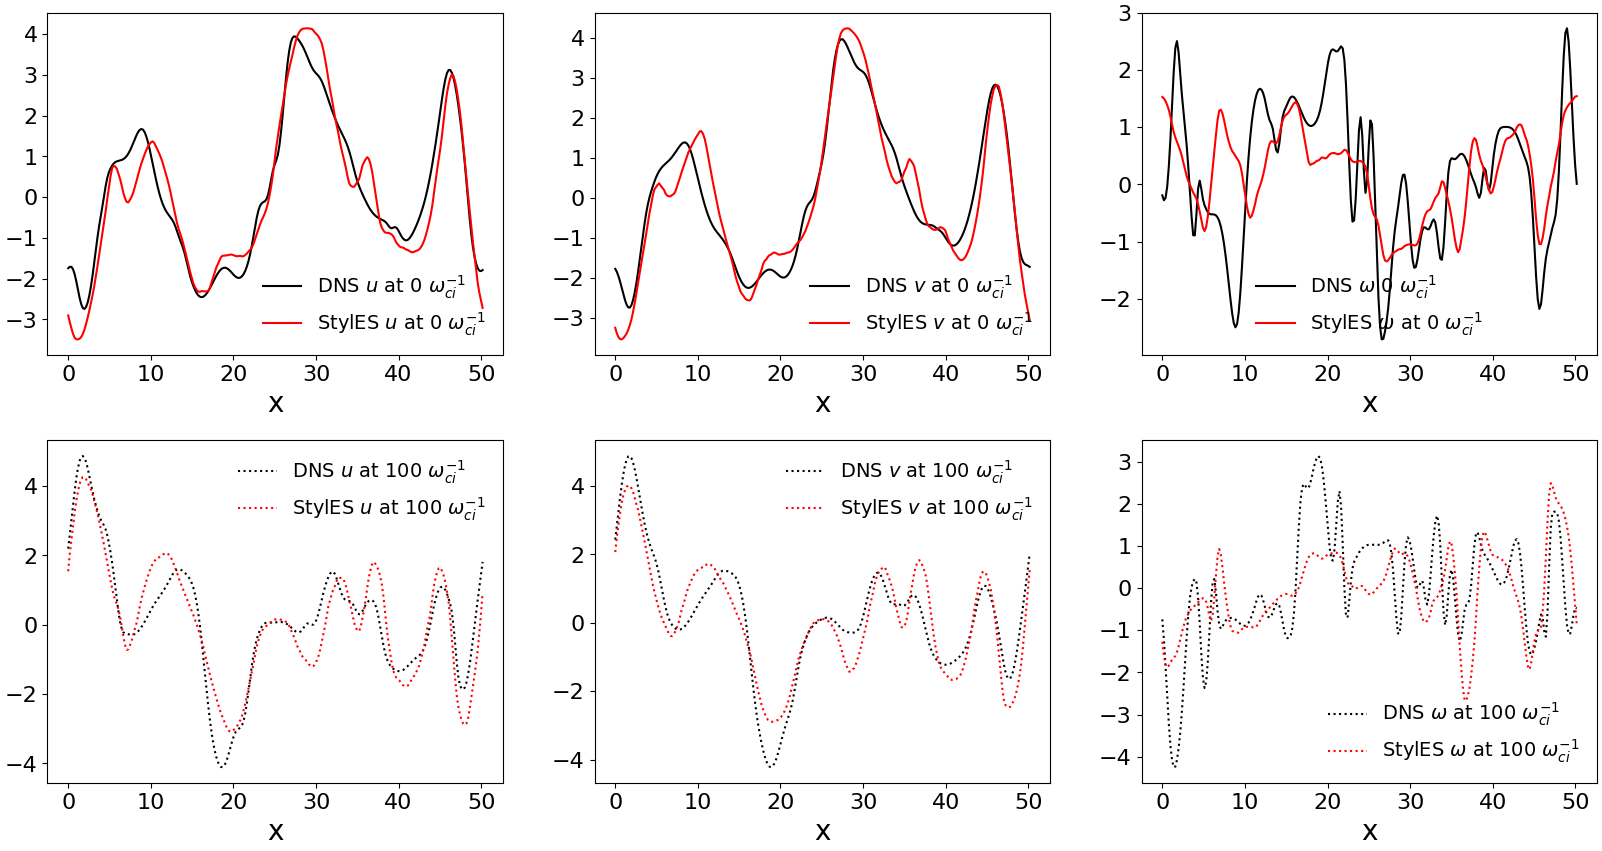
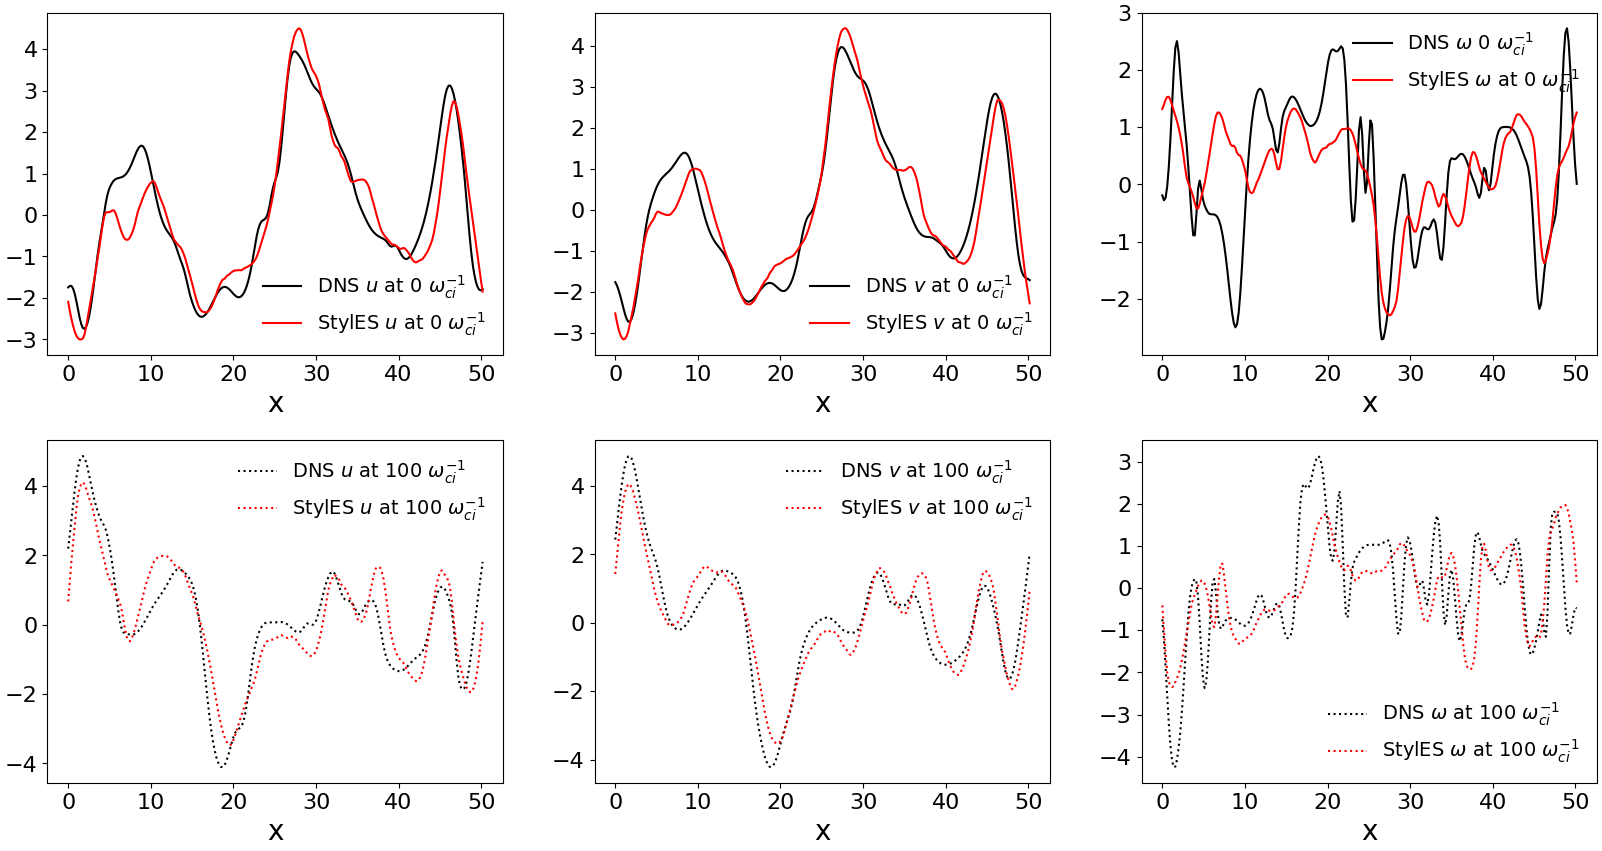
Run up to 1000 time units

diff --git a/bout_interfaces/pBOUT.py b/bout_interfaces/pBOUT.py
@@ -62,11 +62,11 @@ delx        = 1.0
 dely        = 1.0
 delx_LES    = 1.0
 dely_LES    = 1.0
-tollDNS     = 2.5e-1
+tollDNS     = 2.5e+10
 CHKP_DIR    = PATH_StylES + "checkpoints/"
 CHKP_DIR_WL = PATH_StylES + "bout_interfaces/restart_fromGAN/checkpoints_wl/"
 LES_pass    = lr_LES_maxIt
-pPrintFreq  = 0.01
+pPrintFreq  = 1.0
 INIT_SCAL   = 10.0
 RUN_DNS     = False
 RESTART_WL  = True
@@ -421,26 +421,26 @@ def findLESTerms(pLES):
         pStepo   = pStep
         UVP_max  = [nU_amaxo, nV_amaxo, nP_amaxo]
 
-    else:
+    # else:
 
-        maxit    = LES_pass
-        delt     = (simtime - simtimeo)/(pStep - pStepo)
-        simtimeo = simtime
-        pStepo   = pStep
+    #     maxit    = LES_pass
+    #     delt     = (simtime - simtimeo)/(pStep - pStepo)
+    #     simtimeo = simtime
+    #     pStepo   = pStep
         
-        UVP_DNS, UVP_LES, fUVP_DNS, _, preds = find_predictions(wl_synthesis, gfilter, [z0, fimgA], UVP_max)
-        U = preds[RES_LOG2-2][0,0,:,:]
-        V = preds[RES_LOG2-2][0,1,:,:]
-        P = preds[RES_LOG2-2][0,2,:,:]
+    #     UVP_DNS, UVP_LES, fUVP_DNS, _, preds = find_predictions(wl_synthesis, gfilter, [z0, fimgA], UVP_max)
+    #     U = preds[RES_LOG2-2][0,0,:,:]
+    #     V = preds[RES_LOG2-2][0,1,:,:]
+    #     P = preds[RES_LOG2-2][0,2,:,:]
         
-        fnU = gfilter(U[tf.newaxis,tf.newaxis,:,:])[0,0,:,:]
-        fnV = gfilter(V[tf.newaxis,tf.newaxis,:,:])[0,0,:,:]
-        fnP = gfilter(P[tf.newaxis,tf.newaxis,:,:])[0,0,:,:]
-        fnUVP = [fnU, fnV, fnP]
-        kUmax = (fnUo[N2L,N2L]*nfU[N2L,N2L])/(fnU[N2L,N2L]*nfUo[N2L,N2L])*fU_amax*nU_amaxo/fU_amaxo
-        kVmax = (fnVo[N2L,N2L]*nfV[N2L,N2L])/(fnV[N2L,N2L]*nfVo[N2L,N2L])*fV_amax*nV_amaxo/fV_amaxo
-        kPmax = (fnPo[N2L,N2L]*nfP[N2L,N2L])/(fnP[N2L,N2L]*nfPo[N2L,N2L])*fP_amax*nP_amaxo/fP_amaxo
-        UVP_max = [kUmax, kVmax, kPmax]
+    #     fnU = gfilter(U[tf.newaxis,tf.newaxis,:,:])[0,0,:,:]
+    #     fnV = gfilter(V[tf.newaxis,tf.newaxis,:,:])[0,0,:,:]
+    #     fnP = gfilter(P[tf.newaxis,tf.newaxis,:,:])[0,0,:,:]
+    #     fnUVP = [fnU, fnV, fnP]
+    #     kUmax = (fnUo[N2L,N2L]*nfU[N2L,N2L])/(fnU[N2L,N2L]*nfUo[N2L,N2L])*fU_amax*nU_amaxo/fU_amaxo
+    #     kVmax = (fnVo[N2L,N2L]*nfV[N2L,N2L])/(fnV[N2L,N2L]*nfVo[N2L,N2L])*fV_amax*nV_amaxo/fV_amaxo
+    #     kPmax = (fnPo[N2L,N2L]*nfP[N2L,N2L])/(fnP[N2L,N2L]*nfPo[N2L,N2L])*fP_amax*nP_amaxo/fP_amaxo
+    #     UVP_max = [kUmax, kVmax, kPmax]
 
 
 
@@ -485,24 +485,24 @@ def findLESTerms(pLES):
 
             # kDNSo = layer_kDNS.trainable_variables[0]
 
-            # fixscaling: note as this is lagging behind of 1 iteration
-            U = preds[RES_LOG2-2][0,0,:,:]
-            V = preds[RES_LOG2-2][0,1,:,:]
-            P = preds[RES_LOG2-2][0,2,:,:]
-            fnU = gfilter(U[tf.newaxis,tf.newaxis,:,:])[0,0,:,:]
-            fnV = gfilter(V[tf.newaxis,tf.newaxis,:,:])[0,0,:,:]
-            fnP = gfilter(P[tf.newaxis,tf.newaxis,:,:])[0,0,:,:]
+            # # fixscaling: note as this is lagging behind of 1 iteration
+            # U = preds[RES_LOG2-2][0,0,:,:]
+            # V = preds[RES_LOG2-2][0,1,:,:]
+            # P = preds[RES_LOG2-2][0,2,:,:]
+            # fnU = gfilter(U[tf.newaxis,tf.newaxis,:,:])[0,0,:,:]
+            # fnV = gfilter(V[tf.newaxis,tf.newaxis,:,:])[0,0,:,:]
+            # fnP = gfilter(P[tf.newaxis,tf.newaxis,:,:])[0,0,:,:]
 
-            kUmax = UVP_max[0]*nfUo[N2L,N2L]/nfU[N2L,N2L]
-            kVmax = UVP_max[1]*nfVo[N2L,N2L]/nfV[N2L,N2L]
-            kPmax = UVP_max[2]*nfPo[N2L,N2L]/nfP[N2L,N2L]
+            # kUmax = UVP_max[0]*nfUo[N2L,N2L]/nfU[N2L,N2L]
+            # kVmax = UVP_max[1]*nfVo[N2L,N2L]/nfV[N2L,N2L]
+            # kPmax = UVP_max[2]*nfPo[N2L,N2L]/nfP[N2L,N2L]
 
-            UVP_max = [kUmax, kVmax, kPmax]
+            # UVP_max = [kUmax, kVmax, kPmax]
             
-            # set old values
-            fnUo = fnU
-            fnVo = fnV
-            fnPo = fnP
+            # # set old values
+            # fnUo = fnU
+            # fnVo = fnV
+            # fnPo = fnP
 
             # if (it%1==0):
             if (it!=0 and it%1000==0):
@@ -628,6 +628,47 @@ def findLESTerms(pLES):
     return rLES
 
 
+
+
+def writePoissonDNS(pLES):
+
+    global pPrint, rLES, z0
+
+    #------------------------------------- pass values from BOUT++
+    pLES = pLES.astype(DTYPE)
+    
+    pStep      = int(pLES[0])
+    pStepStart = int(pLES[1])
+
+    delx_LES = pLES[2]
+    dely_LES = delx_LES
+    simtime  = pLES[3]
+    L = (delx_LES + dely_LES)/2.0*N_LES
+
+    delx = delx_LES*N_LES/N_DNS
+    dely = dely_LES*N_LES/N_DNS
+ 
+    # print("L, delx and delx_LES are: ", L, delx, delx_LES, N_DNS, N_LES)
+
+    BOUT_U_LES = pLES[4+0*N_DNS*N_DNS:4+1*N_DNS*N_DNS]
+    BOUT_V_LES = pLES[4+1*N_DNS*N_DNS:4+2*N_DNS*N_DNS]
+    BOUT_P_LES = pLES[4+2*N_DNS*N_DNS:4+3*N_DNS*N_DNS]
+    BOUT_N_LES = pLES[4+3*N_DNS*N_DNS:4+4*N_DNS*N_DNS]
+    BOUT_F_LES = pLES[4+4*N_DNS*N_DNS:4+5*N_DNS*N_DNS]        
+
+    U_LES = np.reshape(BOUT_U_LES, (N_DNS, N_DNS))
+    V_LES = np.reshape(BOUT_V_LES, (N_DNS, N_DNS))
+    P_LES = np.reshape(BOUT_P_LES, (N_DNS, N_DNS))
+    fpPhiVort_DNS = np.reshape(BOUT_N_LES, (N_DNS, N_DNS))
+    fpPhiN_DNS    = np.reshape(BOUT_F_LES, (N_DNS, N_DNS))
+
+    filename = "./results_StylES/fields/fields_PoissonDNS_" + str(pStep).zfill(7)
+    np.savez(filename, pStep=pStep, simtime=simtime, U=fpPhiVort_DNS, V=fpPhiN_DNS, P=fpPhiN_DNS)
+
+    return fpPhiVort_DNS
+
+
+
 # test
 if (RUN_TEST):
     dummy=np.array([0.2, 0.2])
@@ -638,48 +679,6 @@ if (RUN_TEST):
 
 
 # #------------------------------------------- Extra pieces....
-
-# def writePoissonDNS(pLES):
-
-#     global pPrint, rLES, z0
-
-#     #------------------------------------- pass values from BOUT++
-#     pLES = pLES.astype(DTYPE)
-    
-#     pStep      = int(pLES[0])
-#     pStepStart = int(pLES[1])
-
-#     delx_LES = pLES[2]
-#     dely_LES = delx_LES
-#     simtime  = pLES[3]
-#     L = (delx_LES + dely_LES)/2.0*N_LES
-
-#     delx = delx_LES*N_LES/N_DNS
-#     dely = dely_LES*N_LES/N_DNS
- 
-#     # print("L, delx and delx_LES are: ", L, delx, delx_LES, N_DNS, N_LES)
-
-#     BOUT_U_LES = pLES[4+0*N_DNS*N_DNS:4+1*N_DNS*N_DNS]
-#     BOUT_V_LES = pLES[4+1*N_DNS*N_DNS:4+2*N_DNS*N_DNS]
-#     BOUT_P_LES = pLES[4+2*N_DNS*N_DNS:4+3*N_DNS*N_DNS]
-#     BOUT_N_LES = pLES[4+3*N_DNS*N_DNS:4+4*N_DNS*N_DNS]
-#     BOUT_F_LES = pLES[4+4*N_DNS*N_DNS:4+5*N_DNS*N_DNS]        
-
-#     U_LES = np.reshape(BOUT_U_LES, (N_DNS, N_DNS))
-#     V_LES = np.reshape(BOUT_V_LES, (N_DNS, N_DNS))
-#     P_LES = np.reshape(BOUT_P_LES, (N_DNS, N_DNS))
-#     fpPhiVort_DNS = np.reshape(BOUT_N_LES, (N_DNS, N_DNS))
-#     fpPhiN_DNS    = np.reshape(BOUT_F_LES, (N_DNS, N_DNS))
-
-#     filename = "./results_StylES/fields/fields_PoissonDNS_" + str(pStep).zfill(7)
-#     np.savez(filename, pStep=pStep, simtime=simtime, U=fpPhiVort_DNS, V=fpPhiN_DNS, P=fpPhiN_DNS)
-
-#     return fpPhiVort_DNS
-
-
-
-
-
 
 
     # fpPhiVort_DNS = tf.zeros([N_LES,N_LES], dtype=DTYPE)

diff --git a/bout_interfaces/convert_netCDF2png.py b/bout_interfaces/convert_netCDF2png.py
@@ -25,7 +25,7 @@ from isoturb import generate_isotropic_turbulence_2d
 
 #----------------------------- parameters
 MODE        = 'READ_NUMPY'   #'READ_NUMPY', 'MAKE_ANIMATION', 'READ_NETCDF'
-PATH_NUMPY  = "../../BOUT-dev/build_release/examples/hasegawa-wakatani/results_StylES_m2/fields/"
+PATH_NUMPY  = "../../BOUT-dev/build_release/examples/hasegawa-wakatani/results_StylES/fields/"
 # PATH_NUMPY  = "../utilities/results_checkStyles/fields/"
 PATH_NETCDF = "../../BOUT-dev/build_release/examples/hasegawa-wakatani/data/"
 PATH_ANIMAT_ENERGY = "./results/energy/"
@@ -37,7 +37,7 @@ FIND_MIXMAX = True
 DTYPE       = 'float32'
 DIR         = 0  # orientation plot (0=> x==horizontal; 1=> z==horizontal). In BOUT++ z is always periodic!
 STIME       = 0  # starting time to take as first image
-ITIME       = 1  # skip between STIME, FTIME, ITIME
+ITIME       = 100  # skip between STIME, FTIME, ITIME
 
 useLogSca = True
 xLogLim   = [1.0e-2, 100]   # to do: to make nmore general

diff --git a/utilities/create_restart.py b/utilities/create_restart.py
@@ -38,7 +38,7 @@ tf.random.set_seed(SEED_RESTART)
 # parameters
 TUNE        = True
 TUNE_NOISE  = False
-tollDNS     = 1.e+100
+tollDNS     = 1.e+10
 N_DNS       = 2**RES_LOG2
 N_LES       = 2**(RES_LOG2-FIL)
 N2L         = int(N_LES/2)
